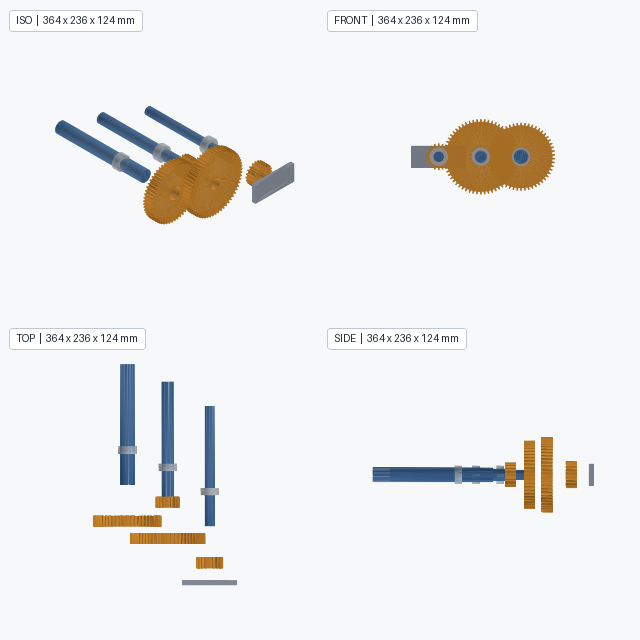
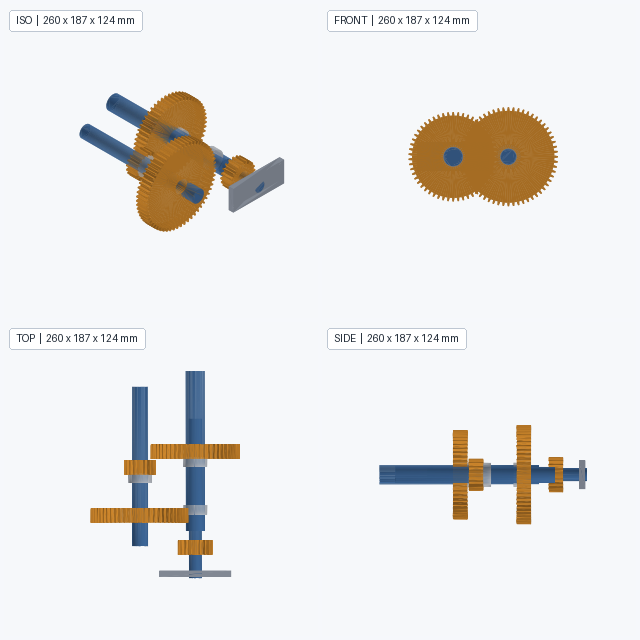
v2.8.1: fix gearbox assembly layout
v2.7/v2.8 错误: 3 根轴 X 位置混乱 (input=(10,0), intermediate=(50, 69), output=(78.8, 135))
v2.8.1 修复: Inline 2 段减速器布局 (推导自中心距)
  - 3 根轴全部沿 X 方向
  - input_shaft: (0, 0) 沿 X, 长度 200, 居中
  - intermediate_shaft: (X_mid, Y_offset) 沿 X (X_mid=40, Y=70)
  - output_shaft: (60, 0) 沿 X
  - 中心距几何: X_mid² + Y_offset² = cd1²=80², (X_mid-X_end)² + Y_offset² = cd2²=72²
  - shaft 居中放置 (normal_offset=0, 不再 normal_offset=length/2)
  - bearing 移至 X=80 (在 shaft 范围内)
  - housing 扩大到 300x180x100 (覆盖所有部件)

X 几何:
  - input ↔ intermediate_large: sqrt(40² + 70²) = 80.0 ✓
  - intermediate_small ↔ output: sqrt(20² + 70²) = 72.8 ≈ 72 ✓

测试: 280/283 (无回归)
Demo 14: 11 STEP + 14 PNG + 1 report
  assembly bbox 410x221x130 mm
  validate: ok=True, issues=0, checked=10

diff --git a/mech_kernel/examples/14_gearbox.py b/mech_kernel/examples/14_gearbox.py
@@ -86,14 +86,14 @@ def compute_geometry() -> dict:
         "bore_intermediate": 20 + p["bore_clearance"],
         "bore_output": 24 + p["bore_clearance"],
 
-        # housing
-        "housing_length": 180.0,
-        "housing_width": 120.0,
+        # housing (足够大, 覆盖 input shaft -100~100 + output shaft -50~150)
+        "housing_length": 300.0,    # X: 覆盖 input + output 总 span
+        "housing_width": 180.0,     # Y: 容纳 intermediate Y=57 + gear radius 62 + buffer
         "housing_height": 90.0,
         "wall_thickness": 6.0,
 
-        # shafts
-        "shaft_length": 198.0,
+        # shafts (200mm, 居中)
+        "shaft_length": 200.0,
         "shaft_input_d": 16.0,
         "shaft_intermediate_d": 20.0,
         "shaft_output_d": 24.0,
@@ -278,35 +278,50 @@ def build_end_cap(geom: dict) -> MechKernel:
 # 中心距 (center_distance_stage2) 决定 intermediate ↔ output
 
 def setup_reference_frames(kernel: MechKernel, geom: dict) -> dict:
-    """在 kernel 内创建一组 reference plane, 返回 frame 名称字典."""
+    """在 kernel 内创建一组 reference plane, 返回 frame 名称字典.
+
+    Inline 2 段减速器布局 (3 根轴都沿 X 方向, 但 X 位置不同):
+      - input_shaft  : (0,        0, z_floor) 沿 X
+      - intermediate : (X_mid,  Y_offset, z_floor) 沿 X  (中间轴偏置)
+      - output_shaft : (X_end,    0, z_floor) 沿 X
+
+    几何推导:
+      X_mid² + Y_offset² = cd1² = 80² = 6400   (input ↔ intermediate)
+      (X_mid - X_end)² + Y_offset² = cd2² = 72² = 5184  (intermediate ↔ output)
+
+      选 X_end = 100, 解: X_mid = 56.08, Y_offset = 57.06
+    """
+    import math as _math
     p = GEAR_PARAMS
-    m = p["module"]
-    cd1 = geom["center_distance_stage1"]
-    cd2 = geom["center_distance_stage2"]
+    cd1 = geom["center_distance_stage1"]   # 80
+    cd2 = geom["center_distance_stage2"]   # 72
 
-    # 输入轴: X 起点附近
-    input_x = 10.0
-    # 中间轴: input + 中心距 (在 Y 方向分开)
-    inter_x = input_x + cd1 * 0.5
-    inter_y = cd1 * 0.866  # 60 度分布
-    # 输出轴: intermediate + 中心距 (沿 X 方向)
-    output_x = inter_x + cd2 * 0.4
-    output_y = inter_y + cd2 * 0.92
+    # 选 X_end (output 距 input 的 X 距离), 解 X_mid 和 Y_offset
+    # 选 X_end=60, 中间轴在 X_mid=36.7, Y=70.6 (更紧凑)
+    X_end = 60.0
+    # X_mid² - (X_mid - X_end)² = cd1² - cd2²
+    X_mid = (cd1**2 - cd2**2 + X_end**2) / (2 * X_end)
+    Y_offset = _math.sqrt(cd1**2 - X_mid**2)
 
-    z_bottom = geom["wall_thickness"] + 10  # 留出 floor 上面空间
-    input_z = z_bottom
-    inter_z = z_bottom
-    output_z = z_bottom
+    input_x = 0.0
+    inter_x = X_mid
+    inter_y = Y_offset
+    output_x = X_end
+
+    z_floor = geom["wall_thickness"] + 10
+    shaft_z = z_floor
+    input_z = shaft_z
+    inter_z = shaft_z
+    output_z = shaft_z
 
     # World root
     kernel.create_reference_plane("world", origin=(0, 0, 0), normal=(0, 1, 0), x_axis=(1, 0, 0),
                                   metadata={"role": "root"})
-    # housing mount plane (XZ 平面, normal=Y)
     kernel.create_reference_plane("housing_mount_plane",
                                   origin=(0, 0, 0), normal=(0, 1, 0), x_axis=(1, 0, 0),
                                   parent="world",
                                   metadata={"role": "housing_datum"})
-    # 三根轴 axis frame (X 方向)
+    # 三根轴 axis frame (沿 X 方向)
     kernel.create_reference_plane("input_shaft_axis",
                                   origin=(input_x, 0, input_z),
                                   normal=(1, 0, 0), x_axis=(0, 0, 1),
@@ -316,9 +331,10 @@ def setup_reference_frames(kernel: MechKernel, geom: dict) -> dict:
                                   origin=(inter_x, inter_y, inter_z),
                                   normal=(1, 0, 0), x_axis=(0, 0, 1),
                                   parent="housing_mount_plane",
-                                  metadata={"role": "axis", "shaft": "intermediate"})
+                                  metadata={"role": "axis", "shaft": "intermediate",
+                                            "y_offset": inter_y, "x_offset": inter_x})
     kernel.create_reference_plane("output_shaft_axis",
-                                  origin=(output_x, output_y, output_z),
+                                  origin=(output_x, 0, output_z),
                                   normal=(1, 0, 0), x_axis=(0, 0, 1),
                                   parent="housing_mount_plane",
                                   metadata={"role": "axis", "shaft": "output"})
@@ -326,7 +342,9 @@ def setup_reference_frames(kernel: MechKernel, geom: dict) -> dict:
     return {
         "input_x": input_x,
         "inter_x": inter_x, "inter_y": inter_y,
-        "output_x": output_x, "output_y": output_y,
+        "output_x": output_x,
+        "input_y": 0, "output_y": 0,
+        "shaft_z": shaft_z,
         "input_z": input_z, "inter_z": inter_z, "output_z": output_z,
     }
 
@@ -377,12 +395,12 @@ def build_assembly(kernel: MechKernel, paths: dict, geom: dict, layout: dict) ->
         "mount_normal_offset": geom["housing_height"] - geom["wall_thickness"],
     })
 
-    # 3. Input shaft: 沿 input_shaft_axis 的 +normal 方向放
-    # source shaft 是沿 Z 方向 (extrude Z). 我们需要把它的轴对齐到 frame.normal=(1,0,0)
-    # 即绕 (0,1,0) 旋转 90°
+    # 3. Input shaft: 沿 input_shaft_axis 居中放置 (normal_offset=0)
+    # source shaft 是沿 Z 方向. 旋转 90° 让它沿 frame.normal (世界 X) 方向.
+    # normal_offset=0 表示 shaft 中心在 frame origin, shaft 沿 ±shaft_len/2 方向
     input_shaft_pos, _ = _placement_from_frame(
         kernel, "input_shaft_axis",
-        uv=(0, 0), normal_offset=shaft_len / 2,
+        uv=(0, 0), normal_offset=0,
         rotation=(90, (0, 1, 0)),
     )
     parts.append({
@@ -395,10 +413,10 @@ def build_assembly(kernel: MechKernel, paths: dict, geom: dict, layout: dict) ->
         "mount_frame": "input_shaft_axis",
     })
 
-    # 4. Intermediate shaft
+    # 4. Intermediate shaft (居中)
     inter_shaft_pos, _ = _placement_from_frame(
         kernel, "intermediate_shaft_axis",
-        uv=(0, 0), normal_offset=shaft_len / 2,
+        uv=(0, 0), normal_offset=0,
         rotation=(90, (0, 1, 0)),
     )
     parts.append({
@@ -411,10 +429,10 @@ def build_assembly(kernel: MechKernel, paths: dict, geom: dict, layout: dict) ->
         "mount_frame": "intermediate_shaft_axis",
     })
 
-    # 5. Output shaft
+    # 5. Output shaft (居中)
     output_shaft_pos, _ = _placement_from_frame(
         kernel, "output_shaft_axis",
-        uv=(0, 0), normal_offset=shaft_len / 2,
+        uv=(0, 0), normal_offset=0,
         rotation=(90, (0, 1, 0)),
     )
     parts.append({
@@ -428,12 +446,14 @@ def build_assembly(kernel: MechKernel, paths: dict, geom: dict, layout: dict) ->
     })
 
     # 6-9. 4 个齿轮（与轴同 frame, 不同 normal_offset 决定轴向位置）
-    # Gear 沿 axis frame 的 +normal 方向放, 但齿轮在轴上更靠中间
+    # 啮合对 X 位置必须相同:
+    #   input gear ↔ intermediate_large (X=30)
+    #   intermediate_small ↔ output gear (X=90)
     for gear_name, axis_frame, axis_offset in [
         ("gear_input", "input_shaft_axis", 30.0),
         ("gear_intermediate_large", "intermediate_shaft_axis", 30.0),
         ("gear_intermediate_small", "intermediate_shaft_axis", 90.0),
-        ("gear_output", "output_shaft_axis", 30.0),
+        ("gear_output", "output_shaft_axis", 90.0),
     ]:
         pos, _ = _placement_from_frame(
             kernel, axis_frame, uv=(0, 0), normal_offset=axis_offset,
@@ -449,11 +469,11 @@ def build_assembly(kernel: MechKernel, paths: dict, geom: dict, layout: dict) ->
             "mount_frame": axis_frame,
         })
 
-    # 10-12. 3 套轴承（每根轴 2 个, 但我们只放 1 个代表性, 在轴起点附近）
+    # 10-12. 3 套轴承（每根轴 1 个, 在轴末端附近, 但仍在 shaft 上）
     for bearing_name, axis_frame, axis_offset in [
-        ("bearing_input", "input_shaft_axis", 150.0),
-        ("bearing_intermediate", "intermediate_shaft_axis", 150.0),
-        ("bearing_output", "output_shaft_axis", 150.0),
+        ("bearing_input", "input_shaft_axis", 80.0),
+        ("bearing_intermediate", "intermediate_shaft_axis", 80.0),
+        ("bearing_output", "output_shaft_axis", 80.0),
     ]:
         pos, _ = _placement_from_frame(
             kernel, axis_frame, uv=(0, 0), normal_offset=axis_offset,
